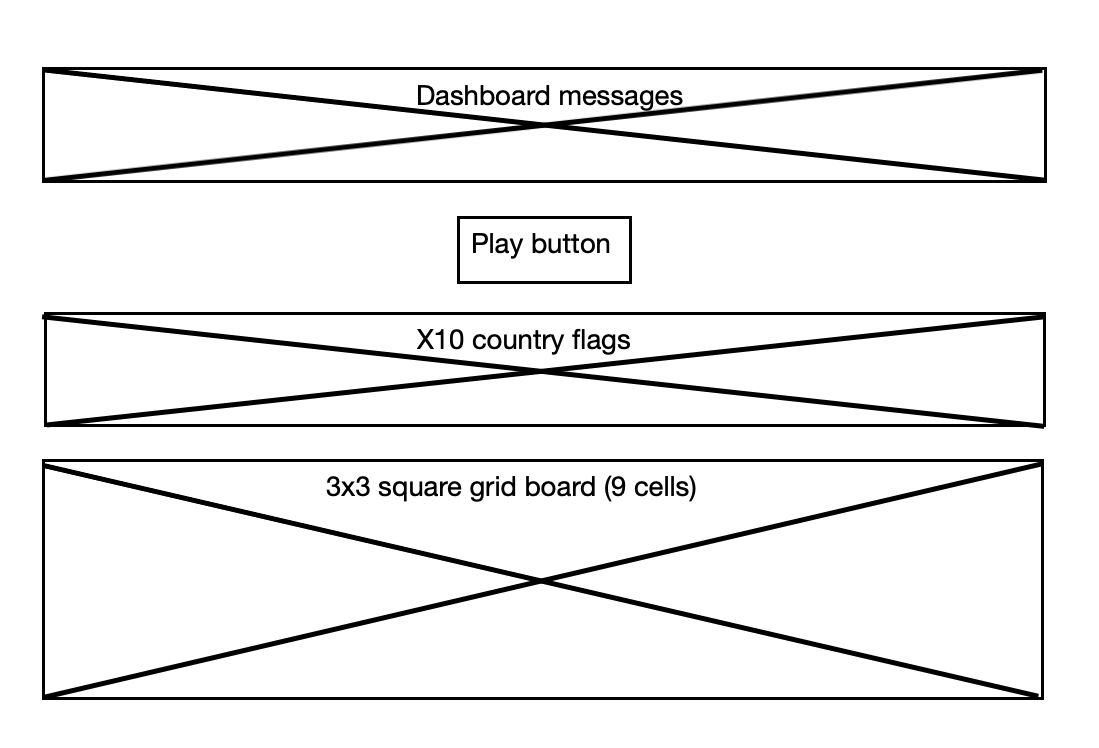
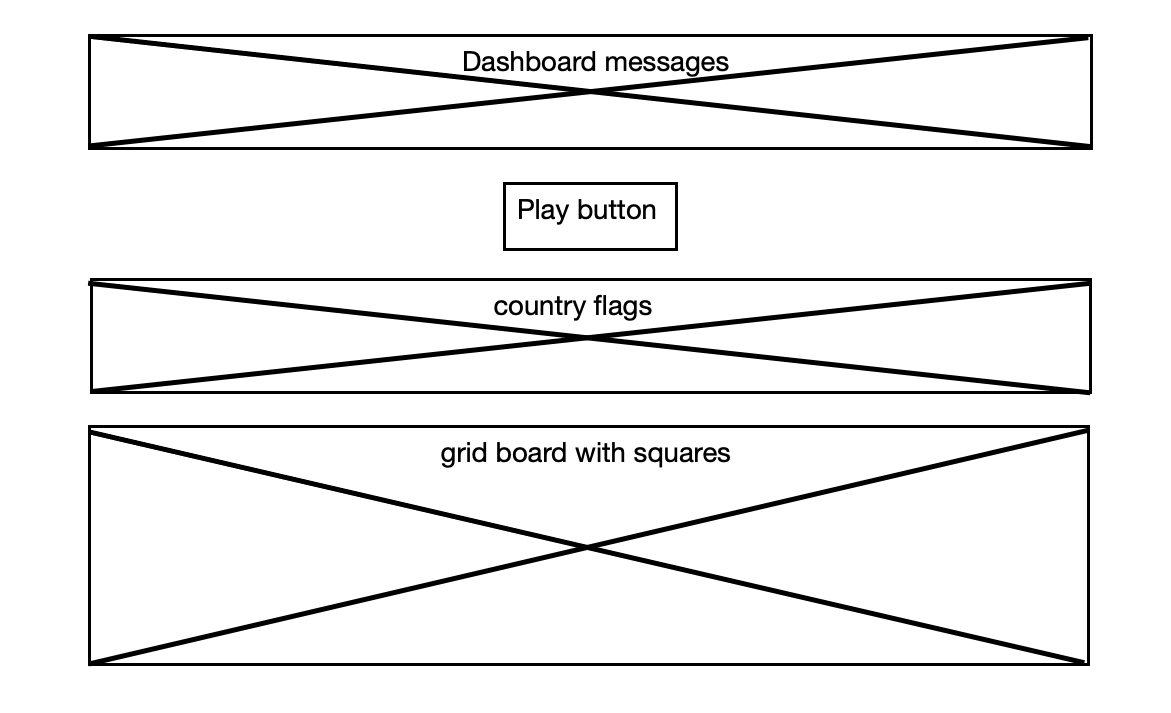
drag and drop logic

diff --git a/script.js b/script.js
@@ -1,4 +1,6 @@
-//import { countries } from './data';
+// import data from './data.json' assert { type: 'json'};
+
+// console.log(data);
 
 const countries = {
   "ad": "Andorra",
@@ -272,19 +274,22 @@ const shortList = sortedCountries.splice(0, 9);
 
 let shortListReshuffled = [];
 
-shortList.forEach(function (item) {
+shortList.forEach(item => {
   shortListReshuffled.push(item);
   shortListReshuffled.sort(() => Math.random() - 0.5);
 });
 
-console.log(shortList);
-console.log(shortListReshuffled);
+//console.log(shortList);
+//console.log(shortListReshuffled);
 
+let correct = 0;
 
 const btn = document.querySelector('button');
 const cells = document.querySelectorAll('.gameBoard div');
 const flags = document.querySelector('.flags');
 const timer = document.querySelector('#timer');
+const message = document.querySelector('#message');
+const score = document.querySelector('#score');
 
 btn.addEventListener('click', render);
 
@@ -292,30 +297,53 @@ function render(){
 // console.log(e.target.id);
 // console.log(cells);
 
+// for (i = 0; i < shortList.length; i++) {
+//   const flag = document.createElement('div');
+//   flag.setAttribute('id', shortList[i][0]);
+//   flag.setAttribute('class', 'draggable');
+//   flag.setAttribute('draggable', 'true');
+//   flag = `<img class="draggable" draggable="true" id="${shortList[i][0]}"
+//   src="https://flagcdn.com/128x96/${shortList[i][0]}.png">`;
+//   flag.addEventListener("dragstart", dragStart);
+//   flag.addEventListener("drag", drag);
+//   flag.addEventListener("dragend", dragEnd);
+//   flags.appendChild(flag);
+// }
+
 for (i = 0; i < shortList.length; i++) {
-  const flag = document.createElement('div');
+  const flag = document.createElement('img');
   flag.setAttribute('id', shortList[i][0]);
+  flag.setAttribute('data-country', shortList[i][1]);
   flag.setAttribute('class', 'draggable');
   flag.setAttribute('draggable', 'true');
-  flag.innerHTML = `<img
-  src="https://flagcdn.com/128x96/${shortList[i][0]}.png">`;
+  flag.src = `https://flagcdn.com/128x96/${shortList[i][0]}.png`;
+  flag.addEventListener("dragstart", dragStart);
+  //flag.addEventListener("drag", drag);
+  flag.addEventListener("dragend", dragEnd);
   flags.appendChild(flag);
 }
 
 for (i = 0; i < shortListReshuffled.length; i++) {
   cells[i].setAttribute('id', shortListReshuffled[i][0]);
   cells[i].setAttribute('class', 'droppable');
-  cells[i].innerHTML = `<h4>${shortListReshuffled[i][1]}</h4>`
+  cells[i].innerHTML = `${shortListReshuffled[i][1]}`
+  //cells[i].addEventListener("dragenter", dragEnter);
+  cells[i].addEventListener("dragover", dragOver);
+  //cells[i].addEventListener("dragleave", dragLeave);
+  cells[i].addEventListener("drop", drop);
     }
-
-let secondsAllowed = 31;
+  
+let secondsAllowed = 5;
 
 function startCountDown (){
   secondsAllowed--;
   //console.log(secondsAllowed);
   if (secondsAllowed === 0){
-    //console.log("out of time");
+    console.log("time over");
+    message.style.color = "red"
+    message.innerText = "Out of time, game over!"
     clearInterval(clock);
+    stopGame();
   }
   timer.innerHTML = `Seconds remaining: ${secondsAllowed}`;
 };
@@ -326,6 +354,79 @@ btn.style.display = "none";
 
 };
 
+function dragStart(e) {
+  e.dataTransfer.setData('text/plain', e.target.id);
+  e.target.classList.add("dragging");
+  console.log('dragstart');
+}
+
+function dragEnd(e){
+  e.target.classList.remove("dragging");
+  console.log('dragend');
+}
+
+function dragOver(e){
+  if(!e.target.classList.contains("dropped")){
+  e.preventDefault();
+  console.log('dragover');
+}
+}
+
+function drop(e){
+  e.preventDefault();
+  console.log(drop);
+  droppableElementData = e.target.getAttribute("id");
+  const data = e.dataTransfer.getData('text/plain');
+  if (data === droppableElementData){
+  e.target.innerText = "";
+  e.target.style.border = "3px solid green";
+   e.target.appendChild(document.getElementById(data));
+   correct++;
+   console.log(correct);
+   message.style.color = "green"
+   message.innerText = "Correct answer!"
+   score.innerText = `Completed score: ${Math.round((correct/9)*100)}%`;
+   setTimeout(function(){
+    message.innerText = "";
+}, 1000);
+   e.target.removeEventListener("drop", drop);
+  }
+  else if (data !== droppableElementData){
+    e.target.style.border = "3px solid red";
+    console.log("wrong");
+    message.style.color = "red"
+    message.innerText = "Wrong answer!"
+    setTimeout(function(){
+      message.innerText = "";
+  }, 1000);
+  }
+  gameScore();
+}
+
+function gameScore() {
+  if (correct === 9) {
+    console.log("game completed")
+    message.style.color = "green"
+    message.innerText = "Congratulations, you win!"
+    setTimeout(function(){
+      message.innerText = "Congratulations, you win!";
+  }, 1000);
+    stopGame();
+  }
+ }
+
+function stopGame(){
+  console.log("stopGame function called");
+
+
+btn.style.display = "inline";
+btn.innerText = "Restart";
+btn.addEventListener('click', refresh);
+
+function refresh() {
+  window.location.reload();
+}
+}
 
 
 

diff --git a/index.html b/index.html
@@ -5,31 +5,36 @@
     <meta name="viewport" content="width=device-width, initial-scale=1.0" />
     <title>Flags of the world game</title>
     <link href="style.css" rel="stylesheet" type="text/css" />
+    <!-- <script type="module" src="script.js" defer></script> -->
     <script src="script.js" defer></script>
   </head>
 
   <body>
-    <div class="dashboard">
-      <h1>Flags of the world game</h1>
-      <p id="timer"></p>
+    <div class="container">
+      <header><h1>Flags of the world game</h1></header>
+      <div class="dashboard">
+        <p id="timer"></p>
+        <p id="score"></p>
+        <p id="message"></p>
 
-      <button id="btn">Play Game</button>
+        <button id="btn">Play New Game</button>
+      </div>
+
+      <div class="flags"></div>
+
+      <div class="gameBoard">
+        <div></div>
+        <div></div>
+        <div></div>
+        <div></div>
+        <div></div>
+        <div></div>
+        <div></div>
+        <div></div>
+        <div></div>
+      </div>
+
+      <footer>Source:<a href="https://flagpedia.net"> flagpedia.net</a></footer>
     </div>
-
-    <div class="flags"></div>
-
-    <div class="gameBoard">
-      <div></div>
-      <div></div>
-      <div></div>
-      <div></div>
-      <div></div>
-      <div></div>
-      <div></div>
-      <div></div>
-      <div></div>
-    </div>
-
-    <footer>Source: <a href="https://flagpedia.net">flagpedia.net</a></footer>
   </body>
 </html>

diff --git a/style.css b/style.css
@@ -9,25 +9,42 @@
     --darkgreen: rgb(43, 93, 95);
 }
 
+.container {
+    display: grid;
+    grid-template-columns: 1fr;
+    grid-template-rows: auto;
+    margin-top: 10px;
+}
+
+header {
+    margin: 0 auto;
+}
+
 .dashboard {
     display: flex;
     flex-direction: column;
     justify-content: center;
     align-items: center;
-    font-size: 16px;
+    margin: 10px;
 }
 
 .flags {
-    display: grid;
-    grid-template-columns: auto auto auto;
+    /* display: grid;
+    grid-template-columns: auto auto auto; */
+    display: flex;
+    flex-wrap: wrap;
     margin: 0 auto;
     width: 450px;
 }
 
-.flags>div {
+.flags>img {
     width: 128px;
     height: 96px;
     margin: 10px;
+}
+
+.draggble {
+    cursor: grab;
 }
 
 .dragging {
@@ -35,11 +52,13 @@
 }
 
 .gameBoard {
-    display: grid;
-    grid-template-columns: auto auto auto;
+    /* display: grid;
+    grid-template-columns: auto auto auto; */
+    display: flex;
+    flex-wrap: wrap;
     margin: 0 auto;
-    height: 450px;
-    width: 450px;
+    height: 452px;
+    width: 452px;
     border: 1px solid black;
 }
 
@@ -67,4 +86,21 @@ footer {
     display: flex;
     justify-content: center;
     align-items: center;
+    margin-top: 10px;
+}
+
+#timer {
+    font-size: 20px;
+    margin: 5px;
+}
+
+#score {
+    font-size: 20px;
+    margin: 5px;
+}
+
+#message {
+    font-size: 25px;
+    font-weight: bold;
+    margin: 5px;
 }

diff --git a/README.md b/README.md
@@ -8,7 +8,7 @@ Drag and drop the country flags onto the correct grid board cell.
 
 ## Game Rules
 
-A player needs to drag and drop each of the randomly displayed country flags onto the correct cell of the game board displaying the corresponding country name. A player needs to complete the game before the 30 second countdown timer reaches zero. If a player has more than three incorrect attempts, or runs out of time, the game is over.
+A player needs to drag and drop each of the randomly displayed country flags onto the correct cell of the game board displaying the corresponding country name. A player needs to complete the game before the 60 second countdown timer reaches zero.
 
 ## User Story
 
@@ -18,10 +18,8 @@ A player needs to drag and drop each of the randomly displayed country flags ont
 - I want to see how much time I have left remaining during the game in play.
 - I want to be able to drag and drop a flag onto the correct cell on the board.
 - I want to see a correct or incorrect message after I make a drop move.
-- I want to see a congratulations message if I successfully complete the game.
-- I want to be able to see how many flags I have got correct during the game (percentage game completed).
-- I want to see how many incorrect attempts (out of three) I have left during the game in play.
-- I want the game to show me the answers to the flags I got wrong at the end of the game, if I did not successfully complete the game.
+  I want to be able to see a score total of how many flags I have got correct during the game.
+- I want to see a congratulations message if I successfully complete the game and an automatic game over message if the game is not completed within the alloted time.
 - I want to be able to start a new game when the current game is over.
 - Each time I play a new game I would like the flags to be randomly chosen and different to the previous game.
 
@@ -34,8 +32,8 @@ A player needs to drag and drop each of the randomly displayed country flags ont
 - HTML
 - CSS
 - JavaScript
-- flagpedia.net API
+- flagpedia.net data
 
 ## Future Developments
 
-- Add progressively more difficult levels. Such as where the flags get harder (the game starts with the most common/major nation flags and increasingly shows less widely recognised smaller nation flags), the timer gets shorter, more flags are displayed and less incorrect answers are accepted.
+- Add progressively more difficult levels, such as where the flags get harder (the game starts with the most common/major nation flags and increasingly shows less widely recognised smaller nation flags).
